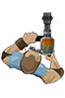
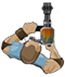
Update to Gameboard, Boundary

diff --git a/src/main/Gameboard.java b/src/main/Gameboard.java
@@ -363,6 +363,8 @@ public class Gameboard extends Application implements EventHandler<ActionEvent> 
 		System.out.println("Stage being showed.");
 		startTime = System.currentTimeMillis();
 		
+		backgroundImageView.setTranslateY(- 1431);
+		
 //		System.out.println(backgroundImageView.getLayoutX()+" "+backgroundImageView.getLayoutY());
 		
 		for(int i=0;i<target.length;i++){
@@ -438,7 +440,8 @@ public class Gameboard extends Application implements EventHandler<ActionEvent> 
 //		System.out.println("After fired,  "+player.getNumberOfUnusedBullet());
 		
 		//player movement
-        if(moveUp){
+        if(moveUp && backgroundImageView.getTranslateY() < - 300){
+        	// && backgroundImageView.getTranslateY() > - 500
         	backgroundImageView.setTranslateY(backgroundImageView.getTranslateY()+5);
         	if(rifleIconImageView.isVisible()){
         	//rifleIconImageView.setTranslateY(rifleIconImageView.getTranslateY()+5);
@@ -455,23 +458,26 @@ public class Gameboard extends Application implements EventHandler<ActionEvent> 
         	}
 //        	player.move(0, -5);
         }
-        if(moveDown){
-        	backgroundImageView.setTranslateY(backgroundImageView.getTranslateY()-5);
+        
+        if(moveDown && backgroundImageView.getTranslateY() > - 1920){
+        	// && backgroundImageView.getTranslateY() < 500
+        	backgroundImageView.setTranslateY(backgroundImageView.getTranslateY() - 5);
         	if(rifleIconImageView.isVisible()){
         	//rifleIconImageView.setTranslateY(rifleIconImageView.getTranslateY()-5);
         	//rifleIconImageView.setX(rifleIconImageView.getX());
-        	rifleIconImageView.setY(rifleIconImageView.getY()-5);
+        	rifleIconImageView.setY(rifleIconImageView.getY() - 5);
         	}
         	if(machinegunIconImageView.isVisible()){
-        	//machinegunIconImageView.setTranslateY(machinegunIconImageView.getTranslateY()-5);
+        	//machinegunIconImageView.setTranslateY(machinegunIconImageView.getTranslateY() - 5);
         		//machinegunIconImageView.setX(machinegunIconImageView.getX());
-            	machinegunIconImageView.setY(machinegunIconImageView.getY()-5);
+            	machinegunIconImageView.setY(machinegunIconImageView.getY() - 5);
         	}
         	for(Target i : target){
         		i.changePosition(0, -5);
         	}
 //        	player.move(0, 5);
         }
+        
         if(moveLeft && backgroundImageView.getTranslateX() < 0){
         	backgroundImageView.setTranslateX(backgroundImageView.getTranslateX()+5);
         	if(rifleIconImageView.isVisible()){
@@ -490,6 +496,7 @@ public class Gameboard extends Application implements EventHandler<ActionEvent> 
         	//System.out.println(backgroundImageView.getTranslateX());
 //        	player.move(-5, 0);
         }
+        
         if(moveRight){ //backgroundImageView.getTranslateX()*-1 < MAX
         	backgroundImageView.setTranslateX(backgroundImageView.getTranslateX()-5);
         	if(rifleIconImageView.isVisible()){
@@ -544,7 +551,7 @@ public class Gameboard extends Application implements EventHandler<ActionEvent> 
 					
 					if(target[j].isDead()){
 						targetImageView[j].setVisible(false);
-						target[j].setPosition(0,0);
+						target[j].setPosition(-999,-999);
 						score++;
 //						System.out.println(score);
 					}
@@ -603,7 +610,6 @@ public class Gameboard extends Application implements EventHandler<ActionEvent> 
 			bossImageView.setY(150);
 			System.out.println("Boss");
 		}
-	
 	}
 	
 	
@@ -612,7 +618,7 @@ public class Gameboard extends Application implements EventHandler<ActionEvent> 
 			weapon.setX((int)(player.getXcoord() + Math.random()*400));
 			weapon.setY((int)(Math.random()*600));
 	}
-	public void pickWeapon (ImageView weapon, int index) {
+	public void pickWeapon (ImageView weapon, short index) {
 		weapon.setVisible(false);
 		pane.getChildren().remove(weapon);
 		Bullet.setBulletDamage(BULLET_DAMAGE[index]);
@@ -630,8 +636,5 @@ public class Gameboard extends Application implements EventHandler<ActionEvent> 
 	public static Point2D getPlayerPosition(){
 		Point2D position = player.getPosition();
 		return position;
-	} 
-	
-	
-	
+	}
 }

diff --git a/src/main/Target.java b/src/main/Target.java
@@ -89,8 +89,8 @@ public class Target extends Character{
 		
 		xIncrement = this.getMovingSpeed() * sinAngle;
 		yIncrement = this.getMovingSpeed() * cosAngle *-1;  // to compensate to revser of y axis of javafx
-
 		this.move(xIncrement, yIncrement);
+		
 	}
 		
 	public void setVisible(Point2D playerPosition){
